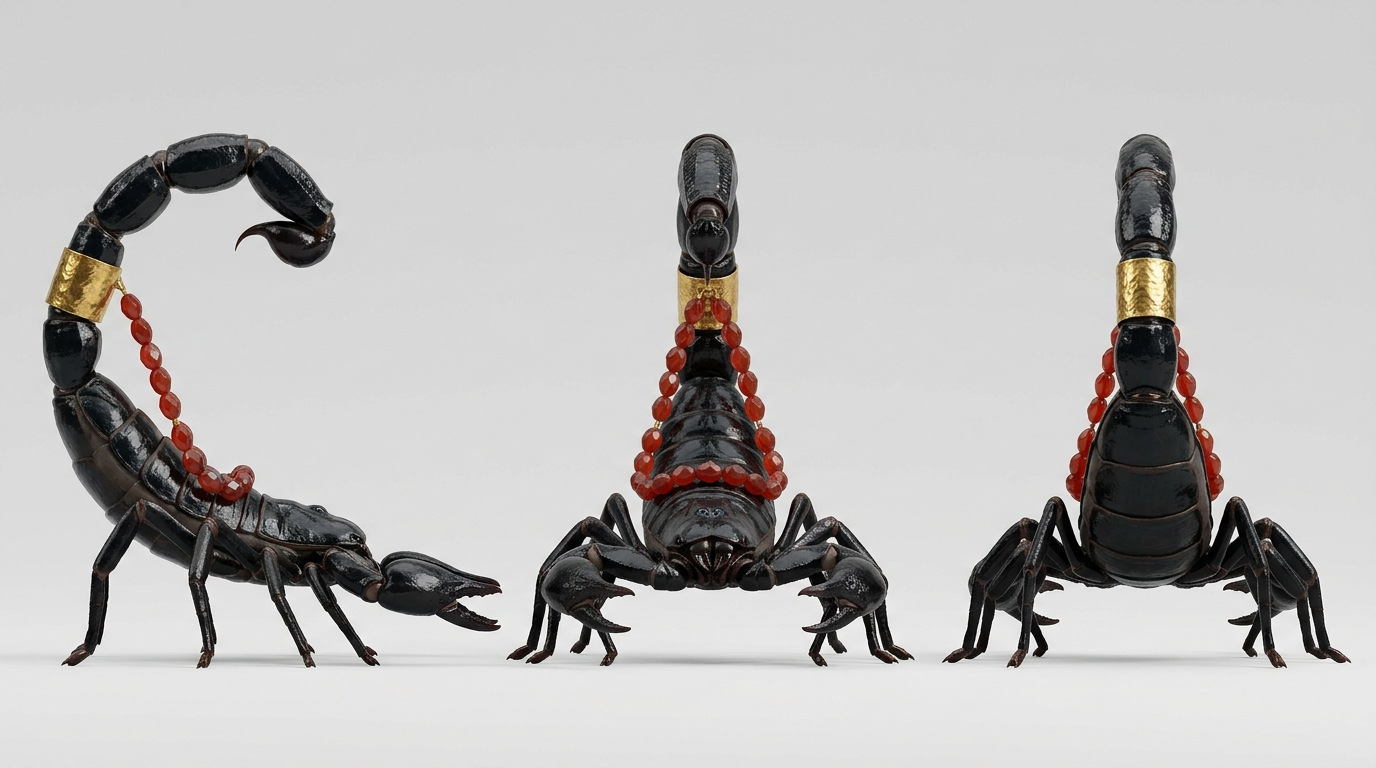
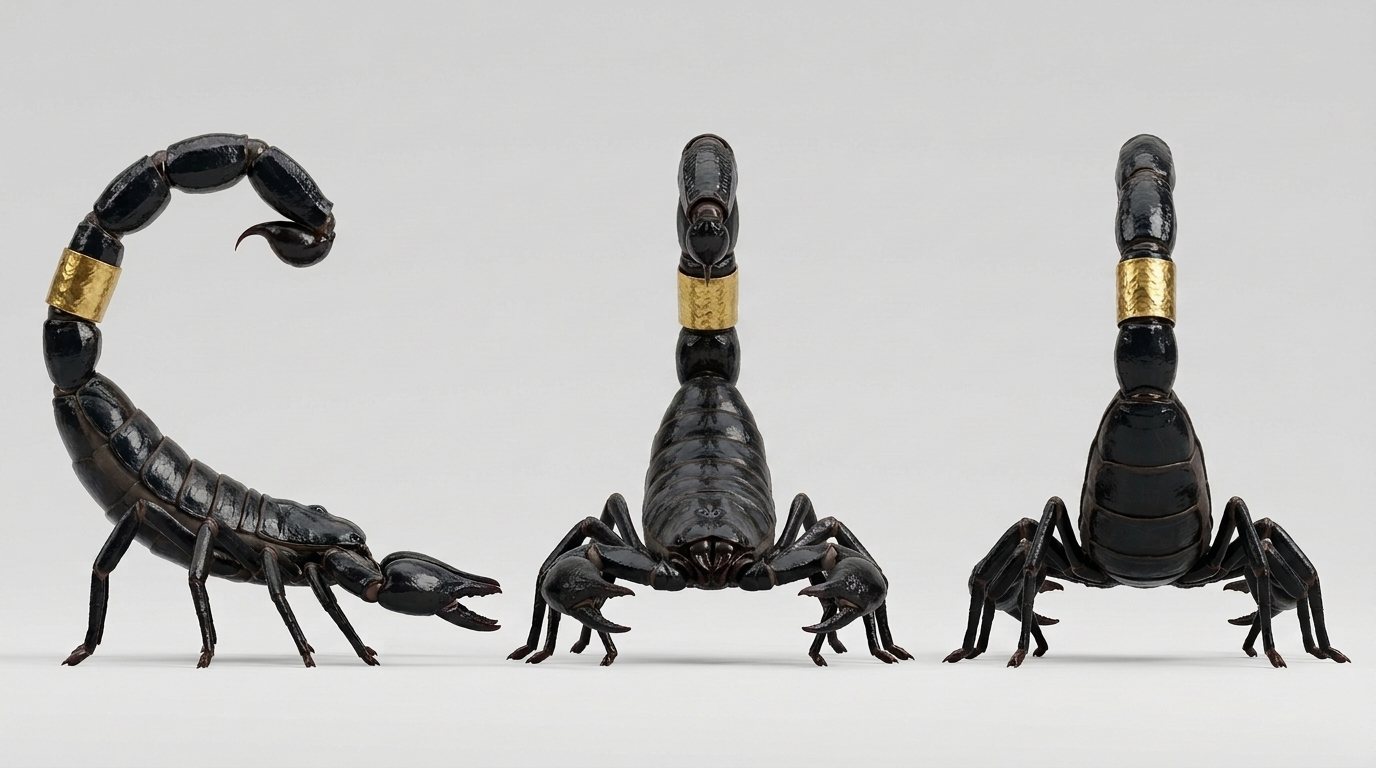
Finish the Serket Scorpion line without the carnelian beads
The second tier is the chosen black fat-tailed temple scorpion with only
its gold tail band, and the third the chosen armoured sample (gilded
bronze plates inlaid with lapis lazuli, with the second tier's gold
band) on the black fat-tailed scorpion, both with the carnelian beads
taken off. The chosen sheets they were made from are kept in
refs/scorpion/sources and attached by the roster.

Claude-Session: https://claude.ai/code/session_014VBYXxiG2Wapix7xffbVix

diff --git a/tools/refs/roster.py b/tools/refs/roster.py
@@ -169,18 +169,28 @@ ROSTER = [
         'a broad leaf-shaped bronze blade, a gilded socket and a bronze butt-spike, and on his left arm a new shield: '
         'a tall cowhide shield about 1.1 m with a rounded top, dappled black and white hide edged with a gilded bronze '
         'rim, and a gilded bronze boss in the shape of a sun disc. No sword in the hands.')),
-    # The scorpion's first two tiers were chosen from separate samples (the black fat-tailed direction), so
-    # each describes the whole creature.
+    # The scorpion's tiers were chosen from samples (the black fat-tailed direction): the first describes the whole
+    # creature; the second and third are the chosen sheets kept in refs/scorpion/sources with their carnelian beads
+    # taken off.
     dict(id='scorpion-1', faction='egypt', kind='beast', name='Serket Scorpion', subject=(
         'A giant black fat-tailed scorpion of the Egyptian desert, sacred to Serket, about 2.5 m long with the tail: '
         'glossy black chitin like Androctonus, a thick heavy tail of swollen segments arched over the back with the '
         'sting, smaller pincers held forward.')),
-    dict(id='scorpion-2', faction='egypt', kind='beast', name='Veteran Serket Scorpion', tier1=False, subject=(
-        'A larger black fat-tailed temple scorpion of Serket: glossy black chitin, a thick heavy arched tail, a band '
-        'of hammered gold round one tail segment and red carnelian beads strung across its back.')),
-    dict(id='scorpion-3', faction='egypt', kind='beast', name='Elite Serket Scorpion', subject=(
-        'The largest temple scorpion: black-brown chitin with a bronze sheen, the tail and pincers banded with gold and '
-        'inlaid lapis lazuli plaques bearing the scorpion emblem of Serket.')),
+    dict(id='scorpion-2', faction='egypt', kind='beast', name='Veteran Serket Scorpion', tier1=False,
+         ref=['scorpion/sources/tier2-with-carnelian.png'],
+         note=('The attached sheet shows this scorpion: keep it exactly as it is there (body, pose, glossy black chitin, '
+               'the thick tail and the hammered gold band round it) in the same views and rendering, and take off the '
+               'strings of red carnelian beads entirely, leaving its back and tail bare black chitin.'), subject=(
+        'A larger black fat-tailed temple scorpion of Serket: glossy black chitin, a thick heavy arched tail with a '
+        'band of hammered gold round one tail segment; no beads.')),
+    dict(id='scorpion-3', faction='egypt', kind='beast', name='Elite Serket Scorpion', tier1=False,
+         ref=['scorpion/sources/tier3-armour-with-carnelian.png'],
+         note=('The attached sheet shows this scorpion: keep it exactly as it is there (body, pose, its armour and the '
+               'hammered gold band on its tail) in the same views and rendering, and take off the strings of red '
+               'carnelian beads entirely, showing the armour plates beneath them.'), subject=(
+        'The largest war scorpion of Serket: the black fat-tailed scorpion in fitted armour of gilded bronze plates '
+        'inlaid with lapis lazuli on the carapace, every tail segment and the pincers, a gold-sheathed sting, and the '
+        'hammered gold band of the second tier on its tail; no beads.')),
     dict(id='chariot-1', faction='egypt', kind='chariot', name='Chariot Archer', subject=(
         'A New Kingdom war chariot c. 1300 BC, as in the reliefs of Ramesses II and the chariots of Tutankhamun: a '
         'light wooden car with a floor of woven leather straps and six-spoked wheels set at the back of the car, drawn '
